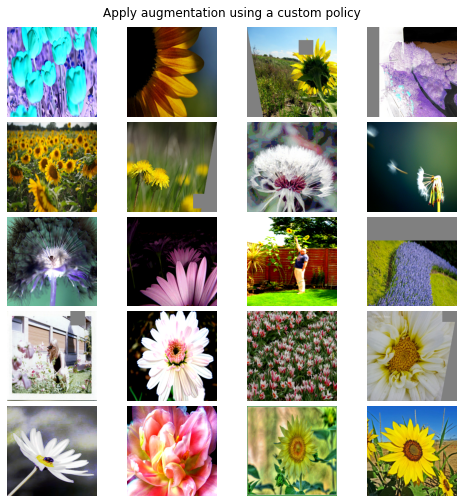
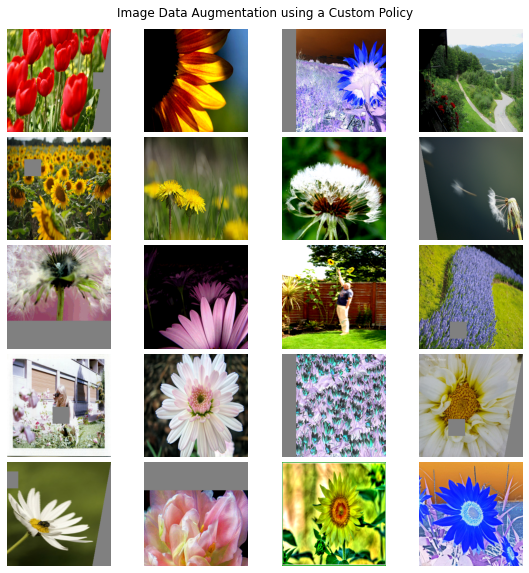
Add random seed in PolicyAugmentation, minor fix examples

diff --git a/image_augmentation/image/policy_augmentation.py b/image_augmentation/image/policy_augmentation.py
@@ -236,12 +236,15 @@ def randomly_select_subpolicy(policy):
 
 
 class PolicyAugmentation:
-    def __init__(self, policy, translate_max=150, rotate_max_degree=30, cutout_max_size=60):
+    def __init__(self, policy, translate_max=150, rotate_max_degree=30, cutout_max_size=60, seed=None):
         self.translate_max = translate_max
         self.rotate_max_degree = rotate_max_degree
         self.cutout_max_size = cutout_max_size
         self.args_level = levels_to_args(translate_max, rotate_max_degree, cutout_max_size)
         self.policy = policy
+
+        if seed is not None:
+            tf.random.set_seed(seed)
 
     def apply(self, images):
         images = tf.convert_to_tensor(images)

diff --git a/image_augmentation/image/README.md b/image_augmentation/image/README.md
@@ -123,8 +123,8 @@ augmented_images = [image for image, label in aug_ds]
 show_images(augmented_images) # show augmented images
 ```
 
-![Original Images](../../images/cifar10_augmented_images.png)
-![Augmented Images](../../images/cifar10_images.png)
+![Original Images](../../images/cifar10_images.png)
+![Augmented Images](../../images/cifar10_augmented_images.png)
 
 **Example 3**: Applying AutoAugment on a batch of images
 
